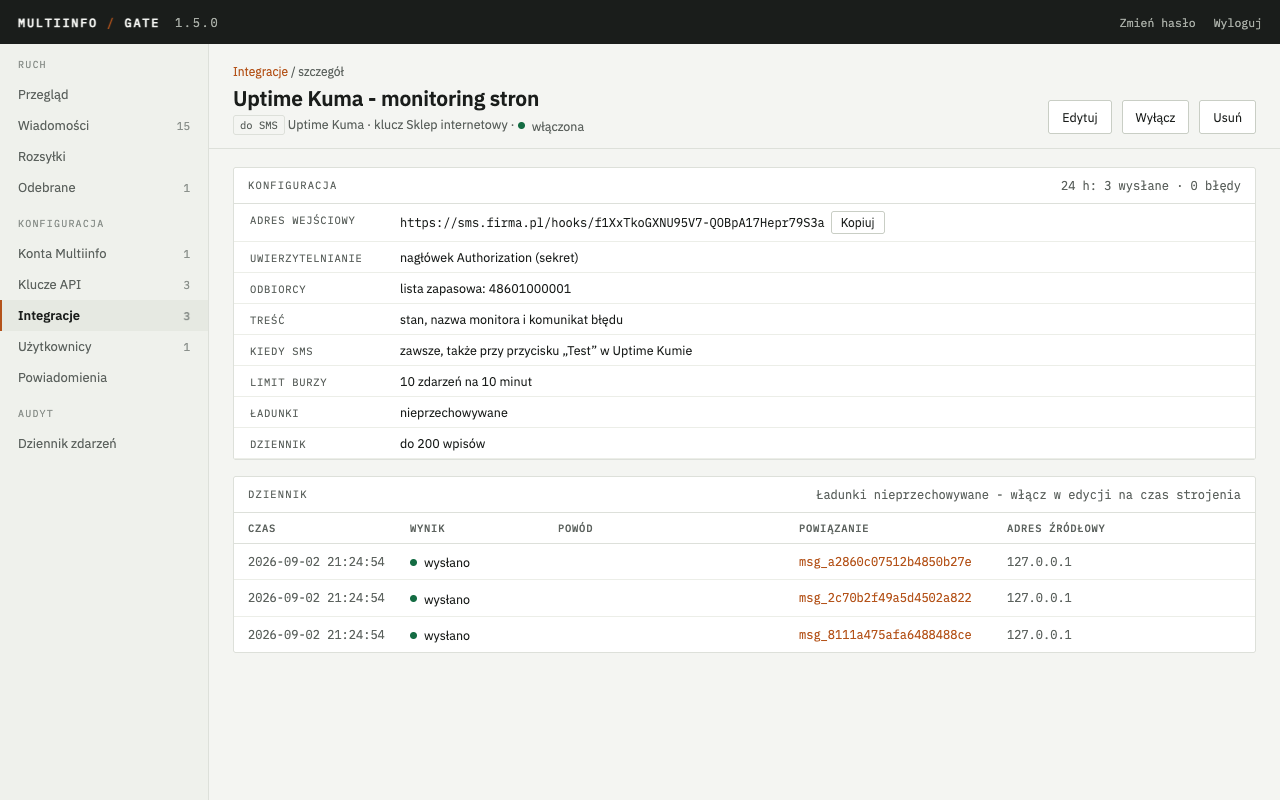
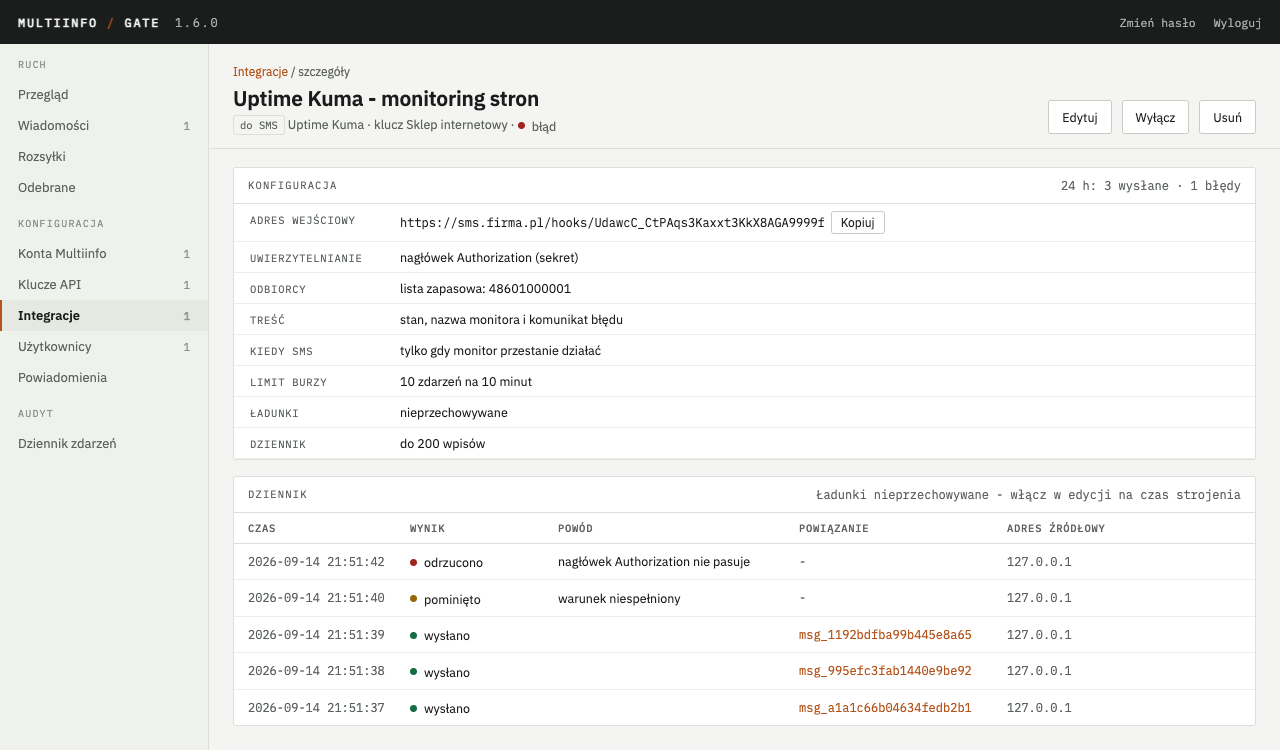
docs: zrzuty panelu powtórzone na wersji 1.6.0, z nawigacją mówiącą „szczegóły”

diff --git a/docs/integracje.md b/docs/integracje.md
@@ -959,7 +959,7 @@ słowami, a pod nią pokazuje dziennik. Każdy wpis dziennika ma czas, wynik, po
 wiadomość (odnośnik do wysłanej albo odebranej) i adres źródłowy. Przy nieudanej dostawie jest
 przycisk **Ponów**.
 
-![Szczegóły integracji: konfiguracja opisana słowami i dziennik z wpisami „wysłano” i „błąd”](obrazki/integracja-dziennik.png)
+![Szczegóły integracji: konfiguracja opisana słowami i dziennik z wpisami „wysłano”, „pominięto” oraz „odrzucono”](obrazki/integracja-dziennik.png)
 
 | Wynik | Znaczenie |
 |---|---|
